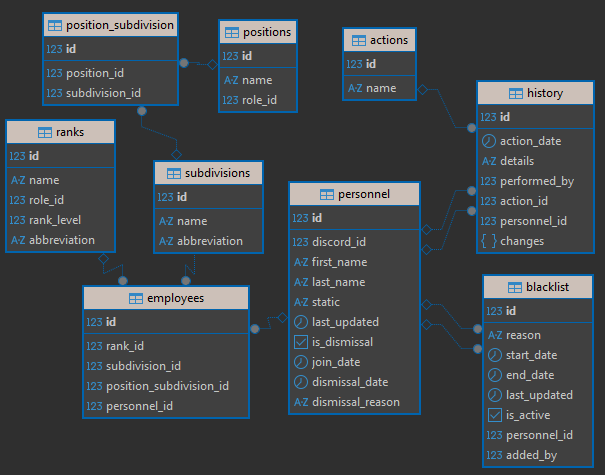
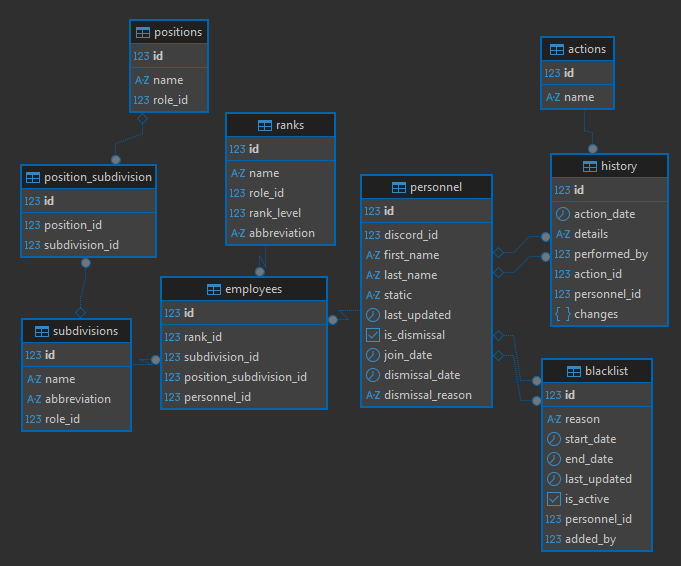
feat(user-info): расширены возможности редактирования пользователем с помощью сведений об отделе и должности

Changed region(s): [[0.0, 0.0, 0.9818, 1.0], [0.5653, 0.0589, 0.714, 0.2358]]

diff --git a/forms/personnel_context/commands_clean.py b/forms/personnel_context/commands_clean.py
@@ -2453,10 +2453,78 @@ async def general_edit(interaction: discord.Interaction, user: discord.Member):
         await interaction.response.send_message("❌ Нельзя редактировать данные бота.", ephemeral=True)
         return
     
-    # Send general editing view
+    # Get current user information from cache and database
+    try:
+        # Get data from cache first
+        from utils.user_cache import get_cached_user_info_sync
+        user_data = get_cached_user_info_sync(user.id)
+        
+        # Get rank from database
+        current_rank = await get_user_rank_from_db(user.id) or "Не указано"
+        
+        # Get department and position from database
+        department_name = "Не указано"
+        position_name = "Не назначено"
+        full_name = user.display_name  # Fallback to display name
+        
+        try:
+            from utils.postgresql_pool import get_db_cursor
+            with get_db_cursor() as cursor:
+                # Get department name and full name
+                cursor.execute("""
+                    SELECT s.name as dept_name, p.first_name, p.last_name
+                    FROM employees e
+                    JOIN personnel p ON e.personnel_id = p.id
+                    JOIN subdivisions s ON e.subdivision_id = s.id
+                    WHERE p.discord_id = %s AND p.is_dismissal = false;
+                """, (user.id,))
+                
+                dept_result = cursor.fetchone()
+                if dept_result:
+                    department_name = dept_result['dept_name']
+                    # Format full name from database
+                    if dept_result['first_name'] and dept_result['last_name']:
+                        full_name = f"{dept_result['first_name']} {dept_result['last_name']}"
+                
+                # Get position name
+                cursor.execute("""
+                    SELECT pos.name 
+                    FROM employees e
+                    JOIN personnel p ON e.personnel_id = p.id
+                    JOIN position_subdivision ps ON e.position_subdivision_id = ps.id
+                    JOIN positions pos ON ps.position_id = pos.id
+                    WHERE p.discord_id = %s AND p.is_dismissal = false;
+                """, (user.id,))
+                
+                pos_result = cursor.fetchone()
+                if pos_result:
+                    position_name = pos_result['name']
+                    
+        except Exception as db_error:
+            print(f"Warning: Could not get department/position data for {user.id}: {db_error}")
+    
+    except Exception as e:
+        print(f"Warning: Could not get user data for {user.id}: {e}")
+        # Fallback values
+        user_data = {}
+        current_rank = "Не указано"
+        department_name = "Не указано"
+        position_name = "Не назначено"
+        full_name = user.display_name
+    
+    # Format user information
+    static = user_data.get('static', 'Не указано') if user_data else 'Не указано'
+    
+    # Send general editing view with current information
     view = GeneralEditView(user)
     await interaction.response.send_message(
-        f"⚙ **Общее редактирование для {user.display_name}**\n"
+        f"⚙ **Общее редактирование для {user.mention}**\n\n"
+        f"📊 **Текущая информация:**\n"
+        f"> • **Имя, Фамилия:** `{full_name}`\n"
+        f"> • **Статик:** `{static}`\n"
+        f"> • **Звание:** `{current_rank}`\n"
+        f"> • **Подразделение:** `{department_name}`\n"
+        f"> • **Должность:** `{position_name}`\n\n"
         f"Выберите что хотите изменить:",
         view=view,
         ephemeral=True

diff --git a/docs/postgresql_migration_guide.md b/docs/postgresql_migration_guide.md
@@ -54,6 +54,7 @@
 | id | integer (PK) | Идентификатор подразделения |
 | name | varchar | Полное название подразделения (для UI и embed) |
 | abbreviation | varchar | Короткое обозначение подразделения |
+| role_id | integer | Discord role id, обязательно для связи с конфигом |
 
 #### `positions`
 | Атрибут | Тип | Описание |
